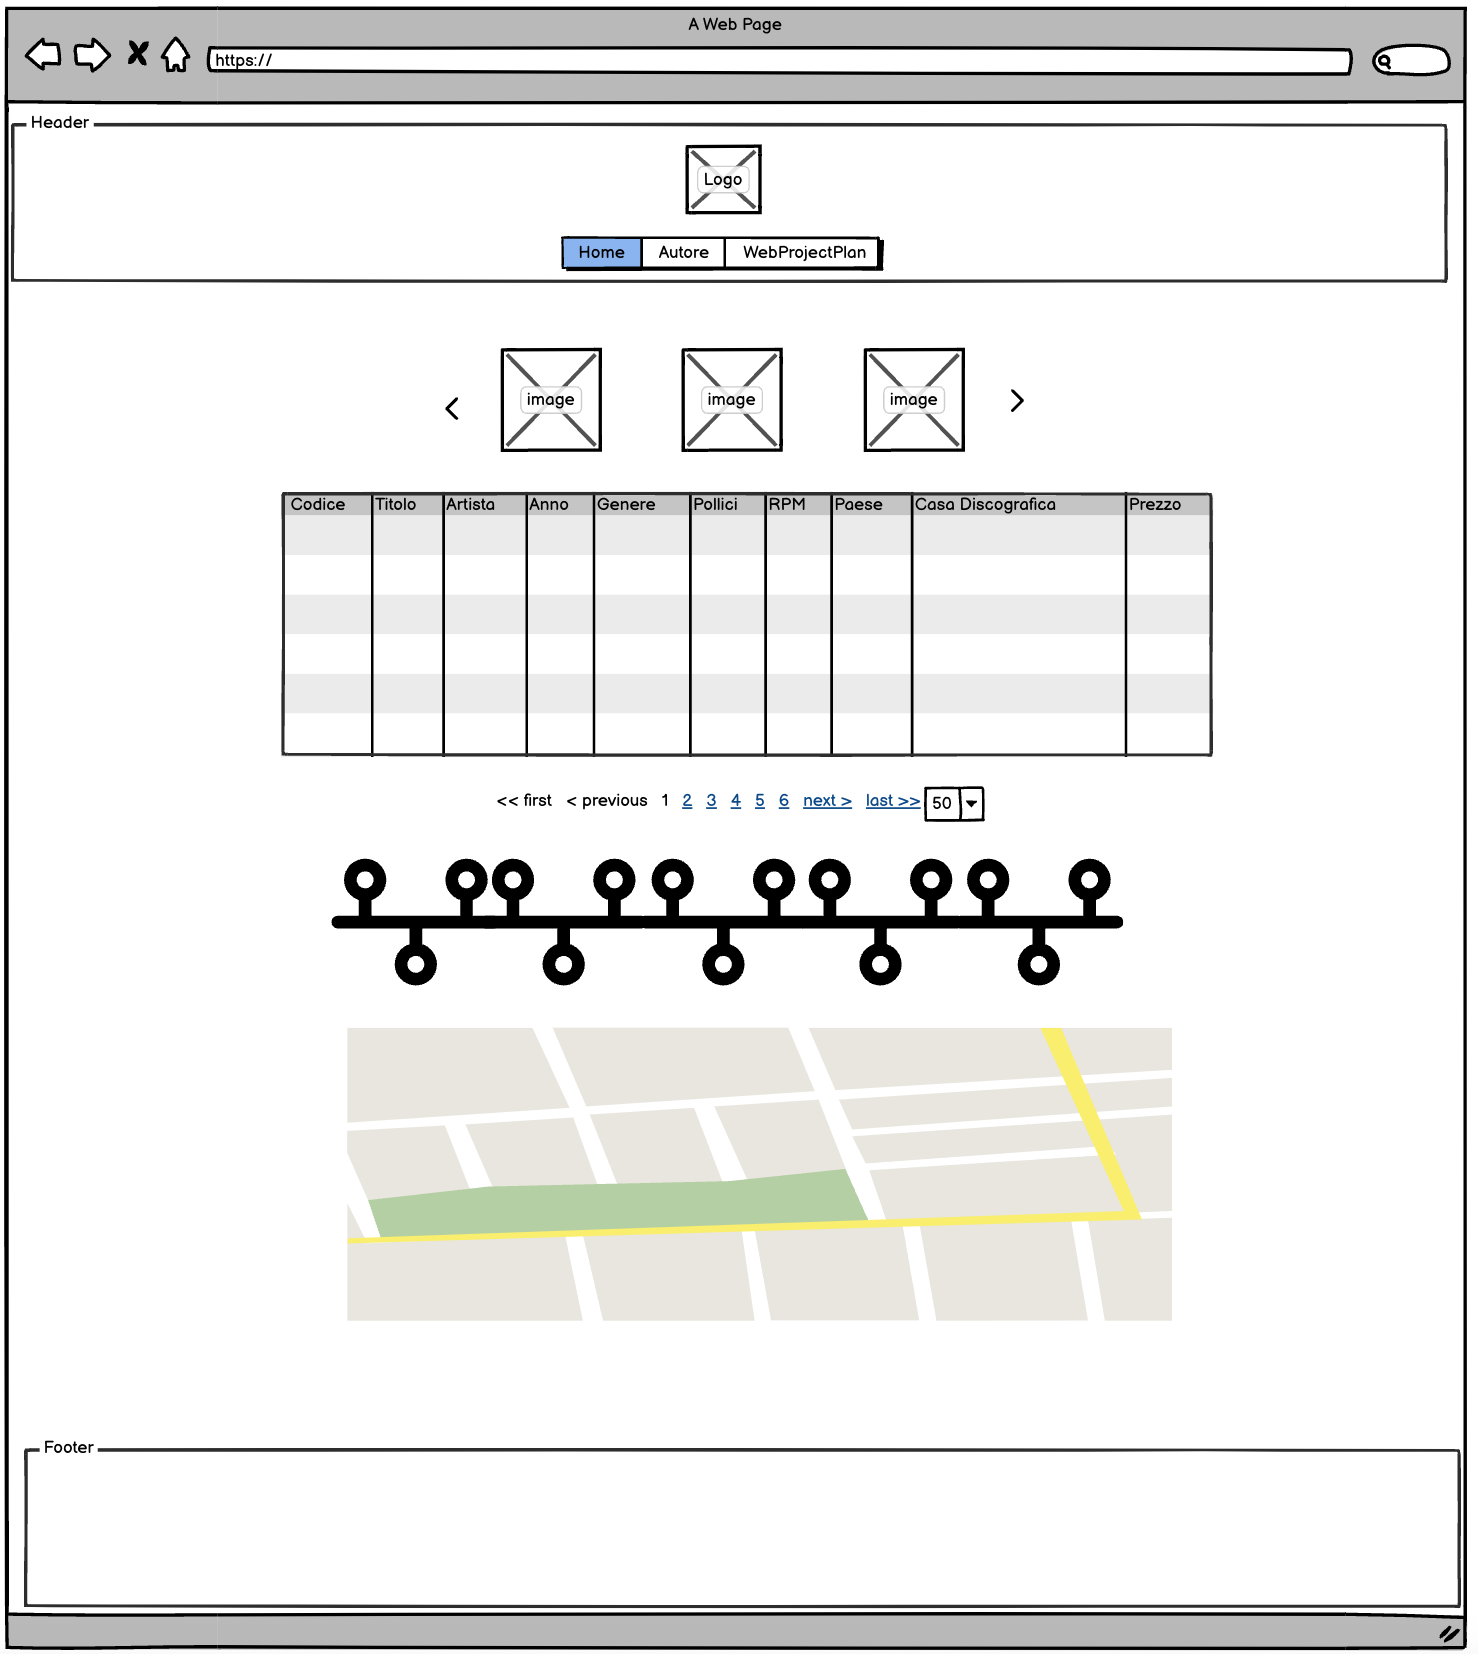
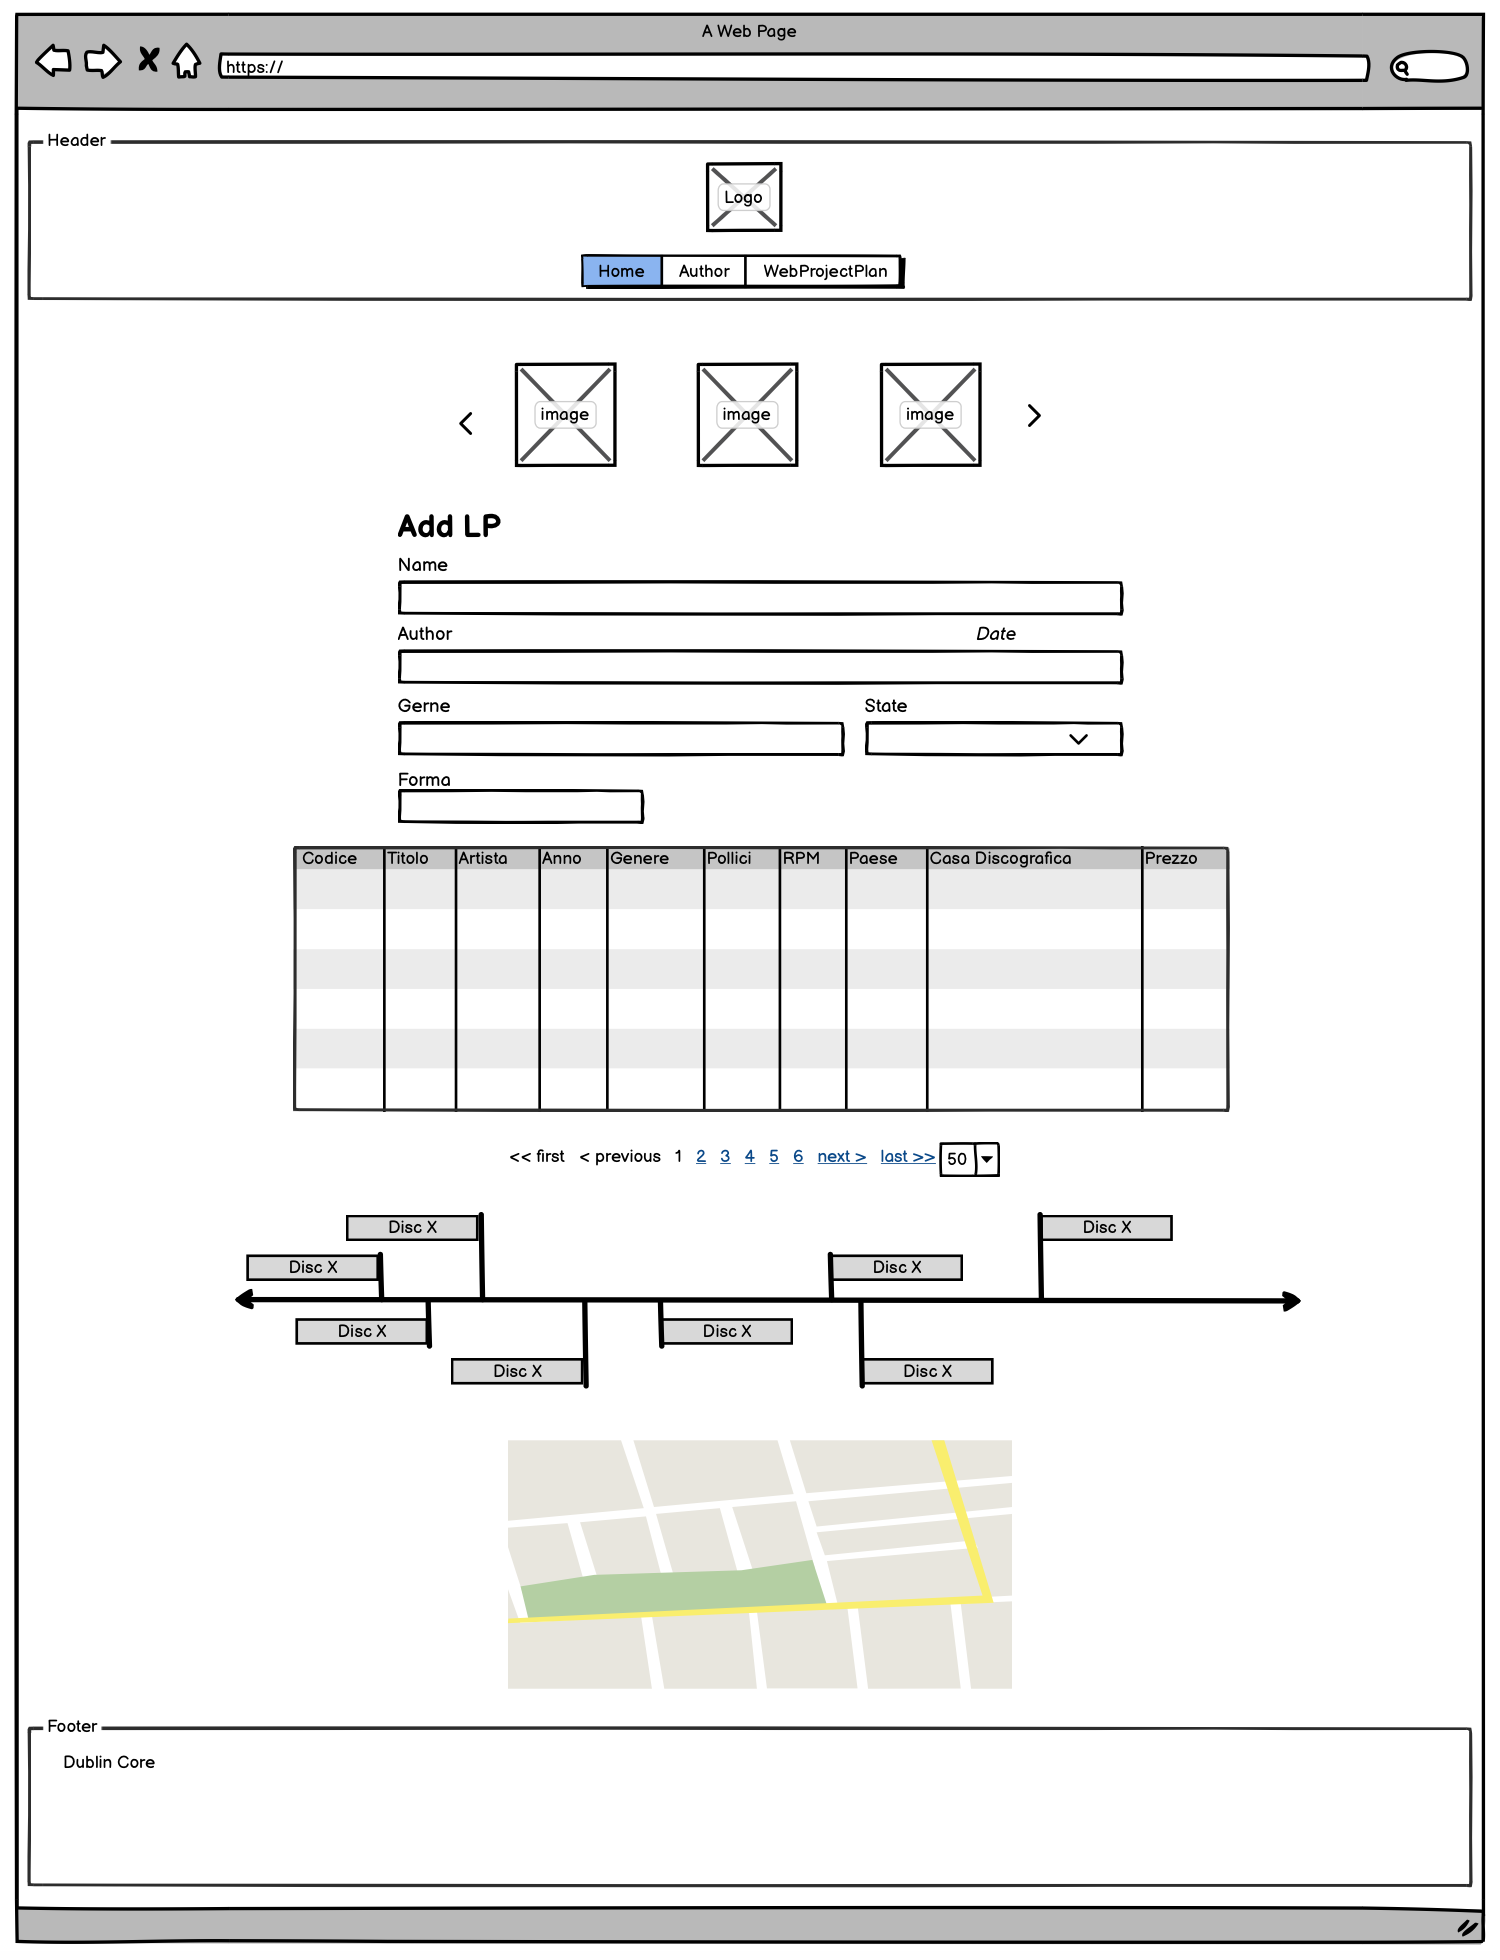
Ultima versione, dovrebbe andare tutto bene!

Changed region(s): [[0.0, 0.0, 0.9959, 1.0]]

diff --git a/project-plan.html b/project-plan.html
@@ -155,11 +155,7 @@
         </ul>
 
         <p>La struttura concettuale può essere rappresentata come:</p>
-        <pre>
-Home → Collezione di Vinili → Vinile Singolo
-                      ↳ Filtri e Ricerca
-Web Project Plan (metanavigazione)
-        </pre>
+        <img src="images/diagramma.png" alt="diagramma" style="width: 100%">
 
         <h4>3.1.2 Schema Gerarchico</h4>
         <p>Questo schema definisce la gerarchia di navigazione e le dipendenze tra le pagine principali.</p>
@@ -175,6 +171,7 @@ Web Project Plan (metanavigazione)
                 </ul>
             </li>
             <li><strong>Web Project Plan</strong> (metanavigazione)</li>
+            <li><strong>Autore</strong> (curriculum)</li>
         </ul>
 
         <h4>3.1.3 Categorie per i Vinili</h4>
